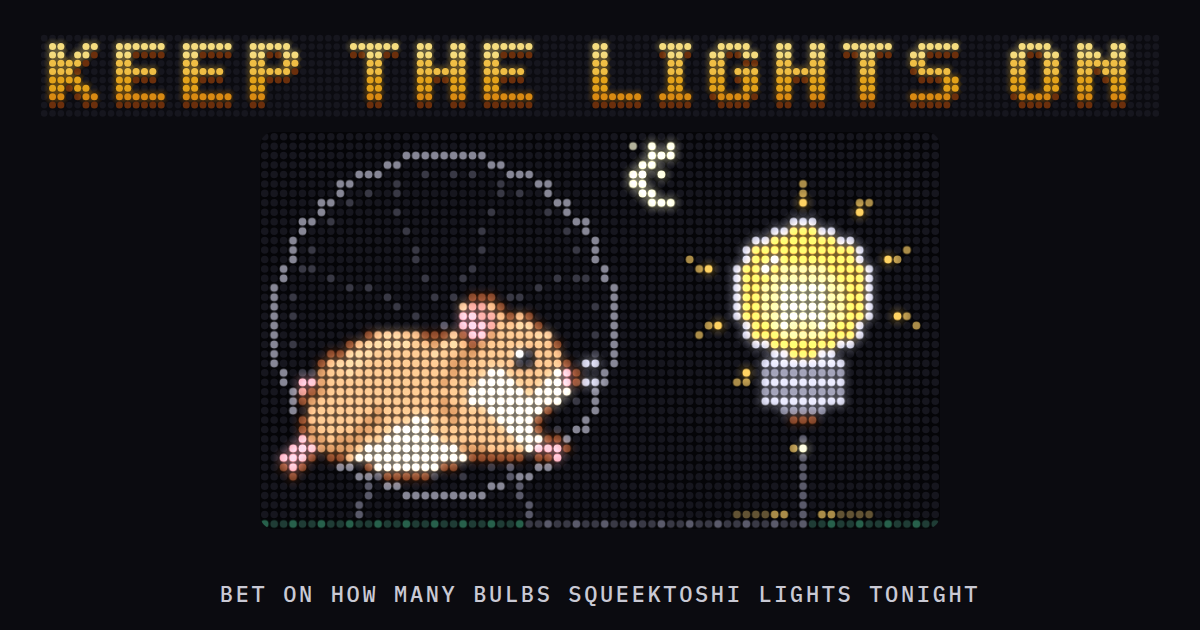
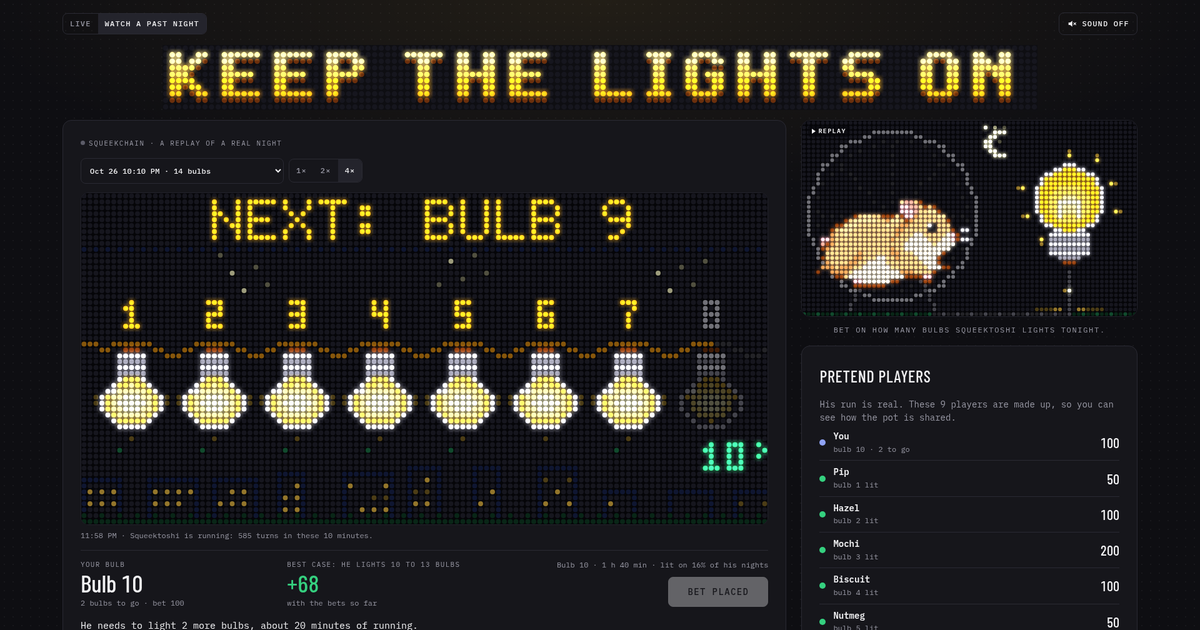
Website: share image and card tags

diff --git a/index.html b/index.html
@@ -6,6 +6,15 @@
 <title>Keep the Lights On</title>
 <meta name="description" content="Squeektoshi's wheel powers a string of numbered bulbs. Bet test SQK on how many he lights before he falls asleep.">
 <meta name="color-scheme" content="light dark">
+<meta property="og:type" content="website">
+<meta property="og:title" content="Keep the Lights On">
+<meta property="og:description" content="A betting game on Squeekchain's real hamster wheel: every 10 minutes Squeektoshi keeps running, the next bulb lights. Bet SQK on how far he gets tonight.">
+<meta property="og:image" content="https://rooaraak.github.io/keep-the-lights-on/og.png">
+<meta property="og:image:width" content="1200">
+<meta property="og:image:height" content="630">
+<meta property="og:url" content="https://rooaraak.github.io/keep-the-lights-on/">
+<meta name="twitter:card" content="summary_large_image">
+<meta name="twitter:image" content="https://rooaraak.github.io/keep-the-lights-on/og.png">
 <link rel="icon" href="icon.svg" type="image/svg+xml">
 <link rel="preconnect" href="https://fonts.googleapis.com">
 <link rel="preconnect" href="https://fonts.gstatic.com" crossorigin>
